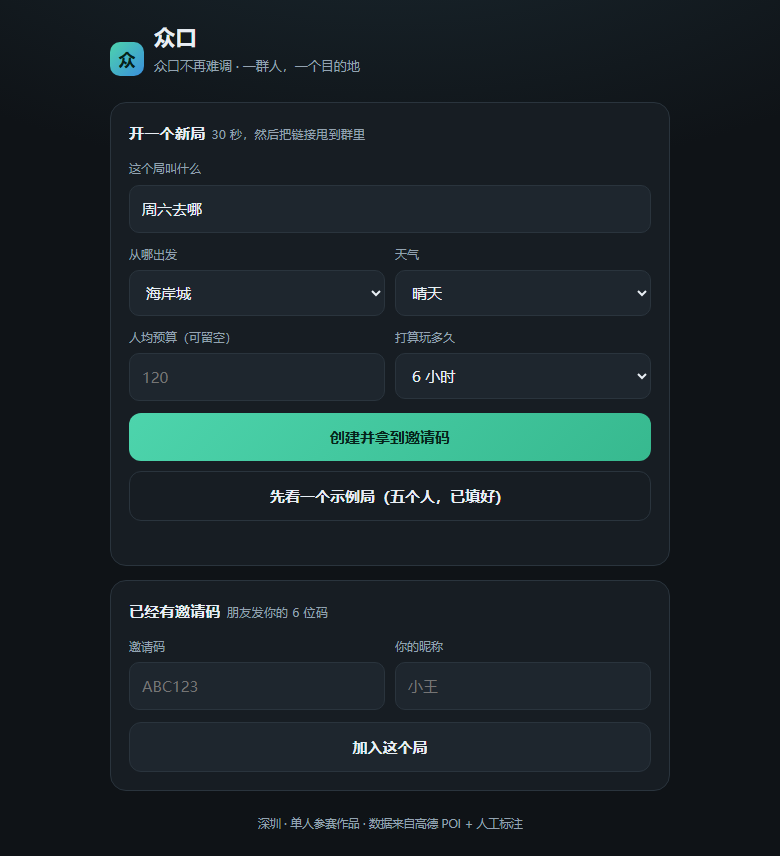
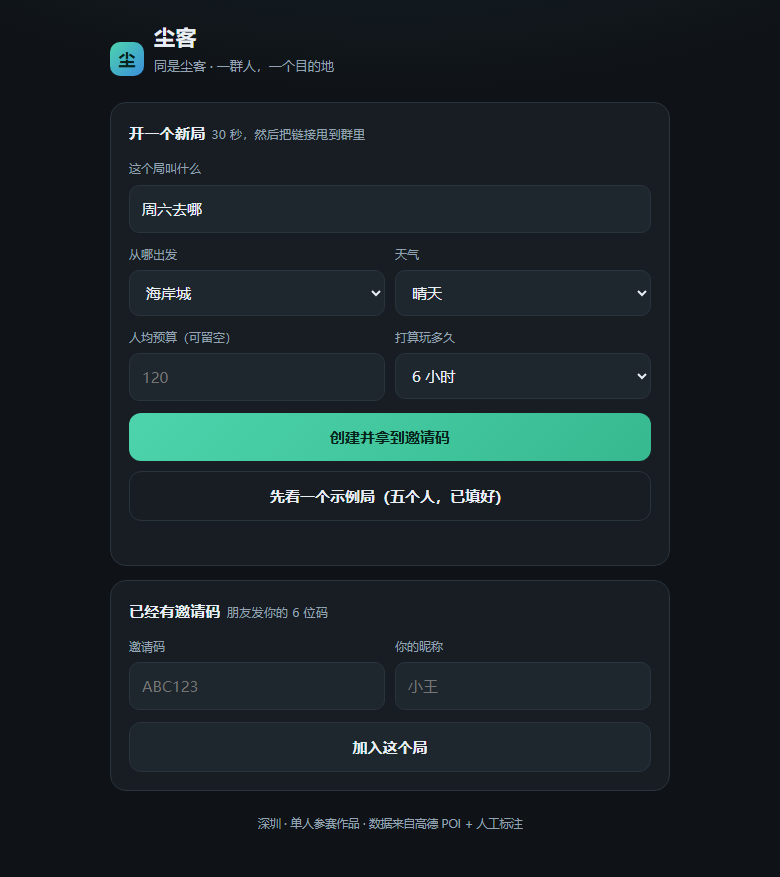
docs: 重拍两张截图（页头已换成尘客），README 恢复引用

diff --git a/README.md b/README.md
@@ -9,6 +9,15 @@
 一个人做推荐，是"我喜欢什么"；一群人做决策，是"我们能接受什么"。
 这中间的差别，就是这个项目存在的理由。
 
+![首屏](docs/preview-home.png)
+
+<details>
+<summary>点开看方案的完整样子（真实运行截图，示例局 5 个人、下雨天）</summary>
+
+![方案页](docs/preview-plans.png)
+
+</details>
+
 ---
 
 ## 一、它解决的到底是什么问题
